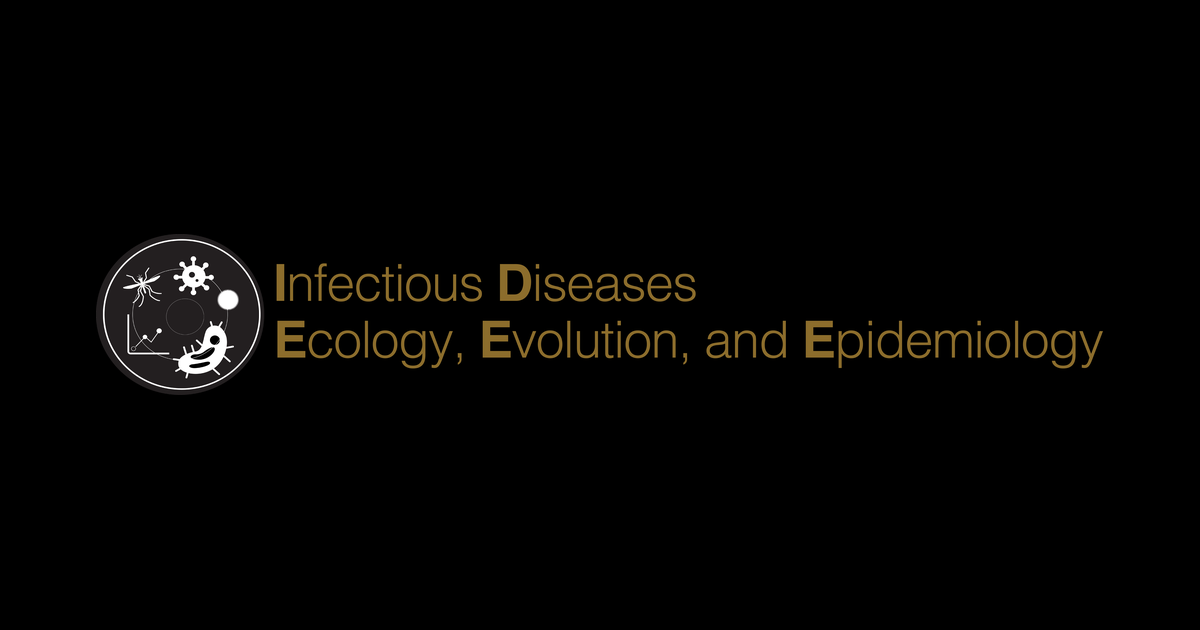
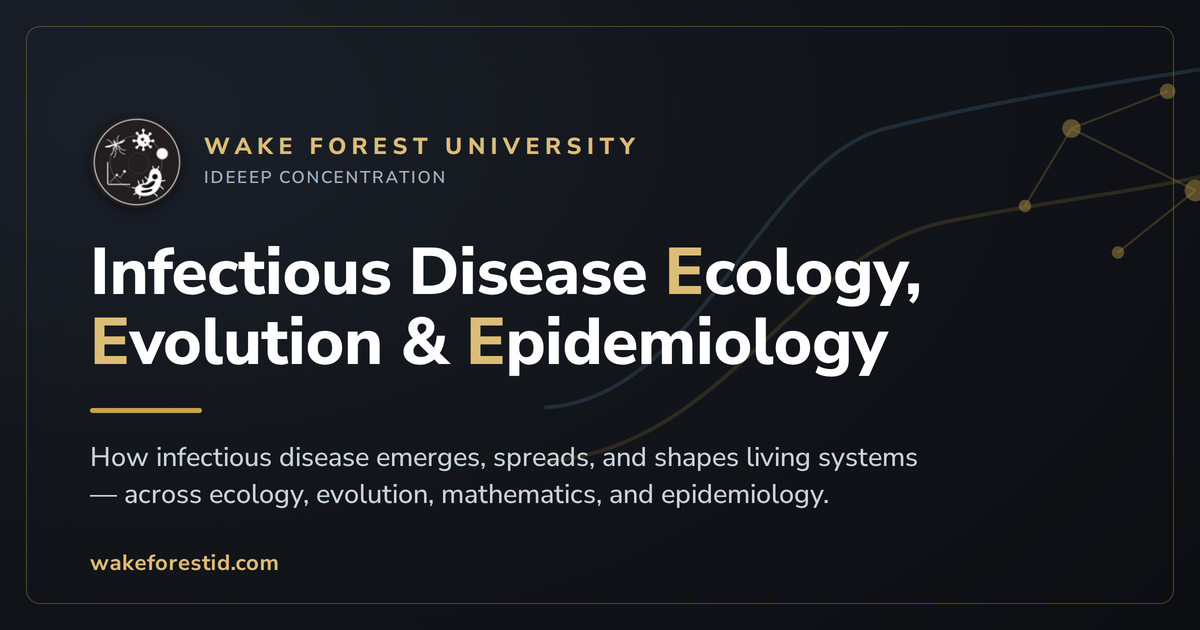
Redesign og:image share card and add image dimension meta tags
The previous share card left ~40% of the canvas as empty black with the
logo floating low-left, and carried no tagline or context.

- Rebuild assets/og-image.png (1200x630) as a balanced Wake Forest black &
  gold card: emblem mark, "Wake Forest University / IDEEEP Concentration"
  kicker, the concentration title with gold-emphasized initials, a tagline,
  the homepage hero motif filling the right side, and wakeforestid.com.
  Rendered with the site's own Nunito Sans font and supersampled for crisp
  text.
- Add og:image:type/width/height/alt and twitter:image:alt so Slack,
  LinkedIn, and iMessage reliably render the large summary card.

Claude-Session: https://claude.ai/code/session_01NaYQqcVnrqsgzHYeWM7jAN

diff --git a/src/main.rs b/src/main.rs
@@ -1032,6 +1032,10 @@ fn generate_html(
     <meta property="og:description" content="{d_attr}">
     <meta property="og:url" content="{canonical}">
     <meta property="og:image" content="{og_image}">
+    <meta property="og:image:type" content="image/png">
+    <meta property="og:image:width" content="1200">
+    <meta property="og:image:height" content="630">
+    <meta property="og:image:alt" content="Wake Forest University IDEEEP concentration — Infectious Disease Ecology, Evolution and Epidemiology">
     <meta property="og:locale" content="en_US">
 
     <!-- Twitter -->
@@ -1039,6 +1043,7 @@ fn generate_html(
     <meta name="twitter:title" content="{t_attr}">
     <meta name="twitter:description" content="{d_attr}">
     <meta name="twitter:image" content="{og_image}">
+    <meta name="twitter:image:alt" content="Wake Forest University IDEEEP concentration — Infectious Disease Ecology, Evolution and Epidemiology">
 
     <!-- Icons / PWA -->
     <link rel="icon" type="image/png" href="{ap}assets/favicon.png" />
